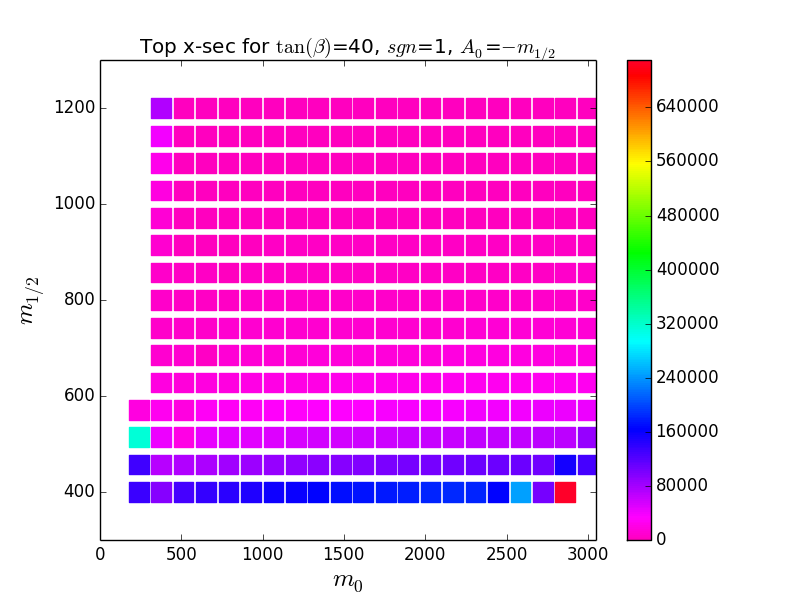
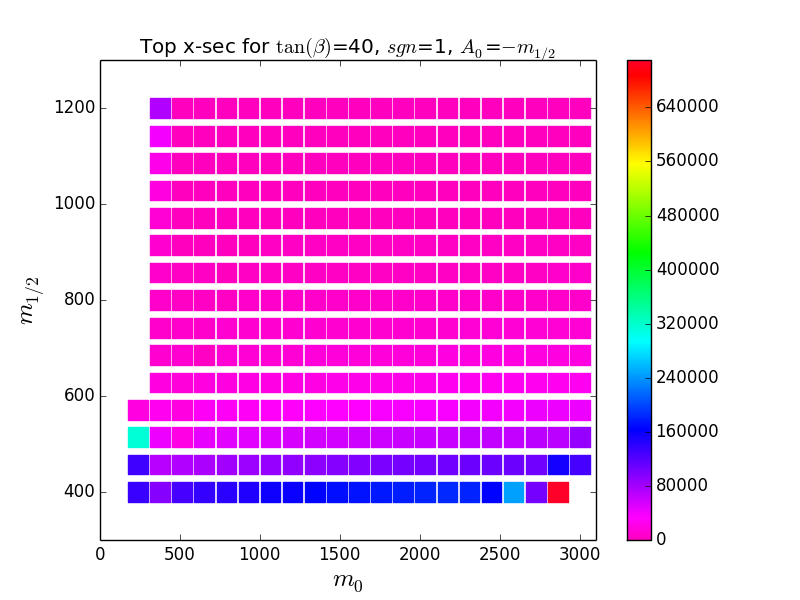
Appearence of plots from fastlim improved

diff --git a/results/fastlim/plot.py b/results/fastlim/plot.py
@@ -33,7 +33,7 @@ def plot_bar_from_counter(counter, ax=None):
 	ax.yaxis.set_major_formatter(plt.FixedFormatter(names))
 	ax.yaxis.set_tick_params(labelsize=10)
 	ax.set_ylim(-1, len(counter)+1)
-	ax.set_xlim(0, max(frequencies)+100)
+	ax.set_xlim(0, max(frequencies)+300)
 	for i, v in enumerate(frequencies):
 		ax.text( v + 20, i-0.25, str(v), color='black', fontweight='normal', fontsize=10)
 
@@ -97,18 +97,18 @@ class Point:
 def plot_hist(points):
 	maxprocs = [p.maxproc for p in points]
 	proc_counts = Counter(maxprocs)
-	plot_bar_from_counter(proc_counts.most_common())
+	plot_bar_from_counter(proc_counts.most_common(10))
 	# plt.xticks(rotation=90)
-	plt.title('Top process occurence')
+	plt.title('Top process occurence (10 highest results)')
 	plt.savefig('plots/proc/top_process.png')
 
 	plt.clf()
 	top3 = [p.top3proc for p in points]
 	top3 = list(chain.from_iterable(top3))
 	top3_counts = Counter(top3)
-	plot_bar_from_counter(top3_counts.most_common())
+	plot_bar_from_counter(top3_counts.most_common(15))
 	# plt.xticks(rotation=90)
-	plt.title('Top 3 processes occurence')
+	plt.title('Top 3 processes occurence (15 highest results)')
 	plt.savefig('plots/proc/top3_process.png')
 
 
@@ -133,7 +133,7 @@ def plot_rate_xsec(points):
 		plt.title(r"Top coverage for $\tan(\beta)$={tan}, $sgn$={sign}, $A_0$={A0}".format(sign=signval, tan=tanval, A0=0))
 		sc = ax.scatter(zeroA0['m0'].tolist(), zeroA0['mhalf'].tolist(), c=zeroA0['maxrate'].tolist(), s=200, cmap=cmap, edgecolor='face', marker='s', vmin=0., vmax=100.)
 		plt.colorbar(sc)
-		plt.xlim(0, 3050)
+		plt.xlim(0, 3100)
 		plt.savefig("plots/rate/rate_{}_{}_{}.png".format(tanval, 0, signval))
 		plt.close()
 		
@@ -144,7 +144,7 @@ def plot_rate_xsec(points):
 		plt.title(r"Top coverage for $\tan(\beta)$={tan}, $sgn$={sign}, $A_0$={A0}".format(sign=signval, tan=tanval, A0=r'$-m_{1/2}$'))
 		sc = ax.scatter(nonzeroA0['m0'].tolist(), nonzeroA0['mhalf'].tolist(), c=nonzeroA0['maxrate'].tolist(), s=200, cmap=cmap, edgecolor='face', marker='s', vmin=0., vmax=100.)
 		plt.colorbar(sc)
-		plt.xlim(0, 3050)
+		plt.xlim(0, 3100)
 		plt.savefig("plots/rate/rate_{}_{}_{}.png".format(tanval, '-mhalf', signval))
 		plt.close()	
 
@@ -155,7 +155,7 @@ def plot_rate_xsec(points):
 		plt.title(r"Top x-sec for $\tan(\beta)$={tan}, $sgn$={sign}, $A_0$={A0}".format(sign=signval, tan=tanval, A0=0))
 		sc = ax.scatter(zeroA0['m0'].tolist(), zeroA0['mhalf'].tolist(), c=zeroA0['maxxsec'].tolist(), s=200, cmap=cmap, edgecolor='face', marker='s')
 		plt.colorbar(sc)
-		plt.xlim(0, 3050)
+		plt.xlim(0, 3100)
 		plt.savefig("plots/xsec/xsec{}_{}_{}.png".format(tanval, 0, signval))
 		plt.close()
 		
@@ -166,7 +166,7 @@ def plot_rate_xsec(points):
 		plt.title(r"Top x-sec for $\tan(\beta)$={tan}, $sgn$={sign}, $A_0$={A0}".format(sign=signval, tan=tanval, A0=r'$-m_{1/2}$'))
 		sc = ax.scatter(nonzeroA0['m0'].tolist(), nonzeroA0['mhalf'].tolist(), c=nonzeroA0['maxxsec'].tolist(), s=200, cmap=cmap, edgecolor='face', marker='s')
 		plt.colorbar(sc)
-		plt.xlim(0, 3050)
+		plt.xlim(0, 3100)
 		plt.savefig("plots/xsec/xsec{}_{}_{}.png".format(tanval, '-mhalf', signval))
 		plt.close()	
 
